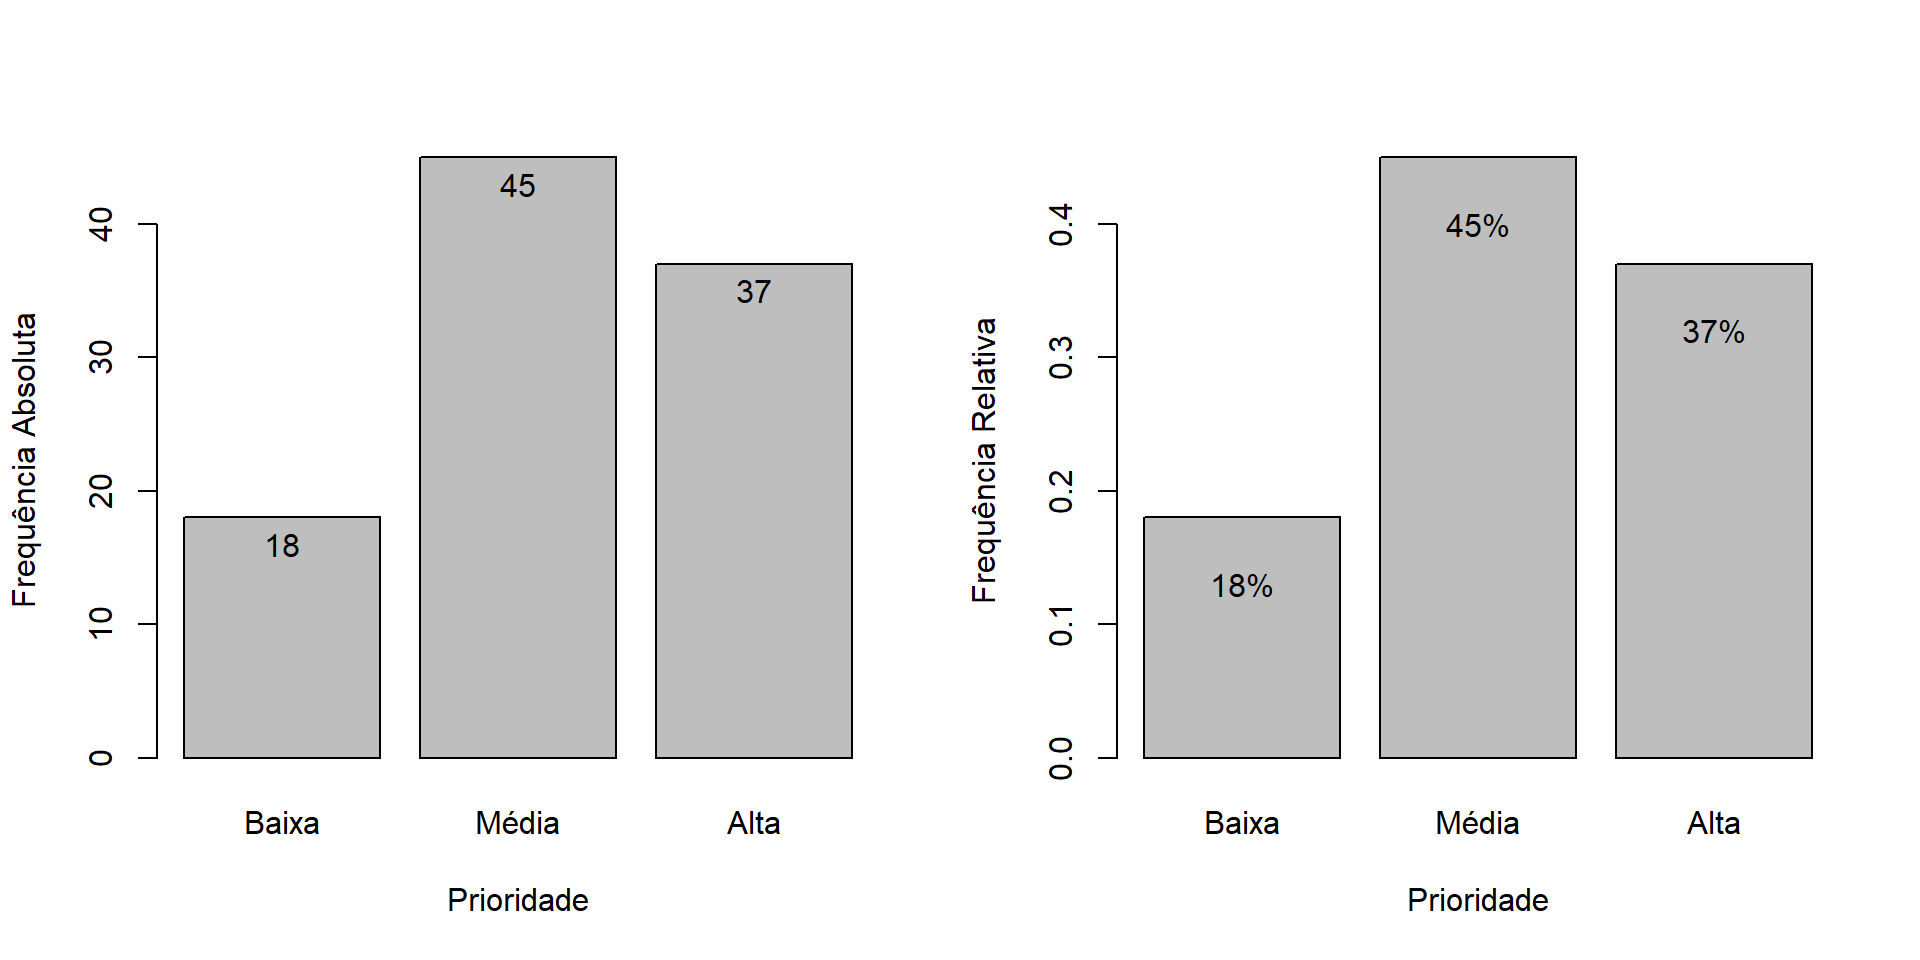
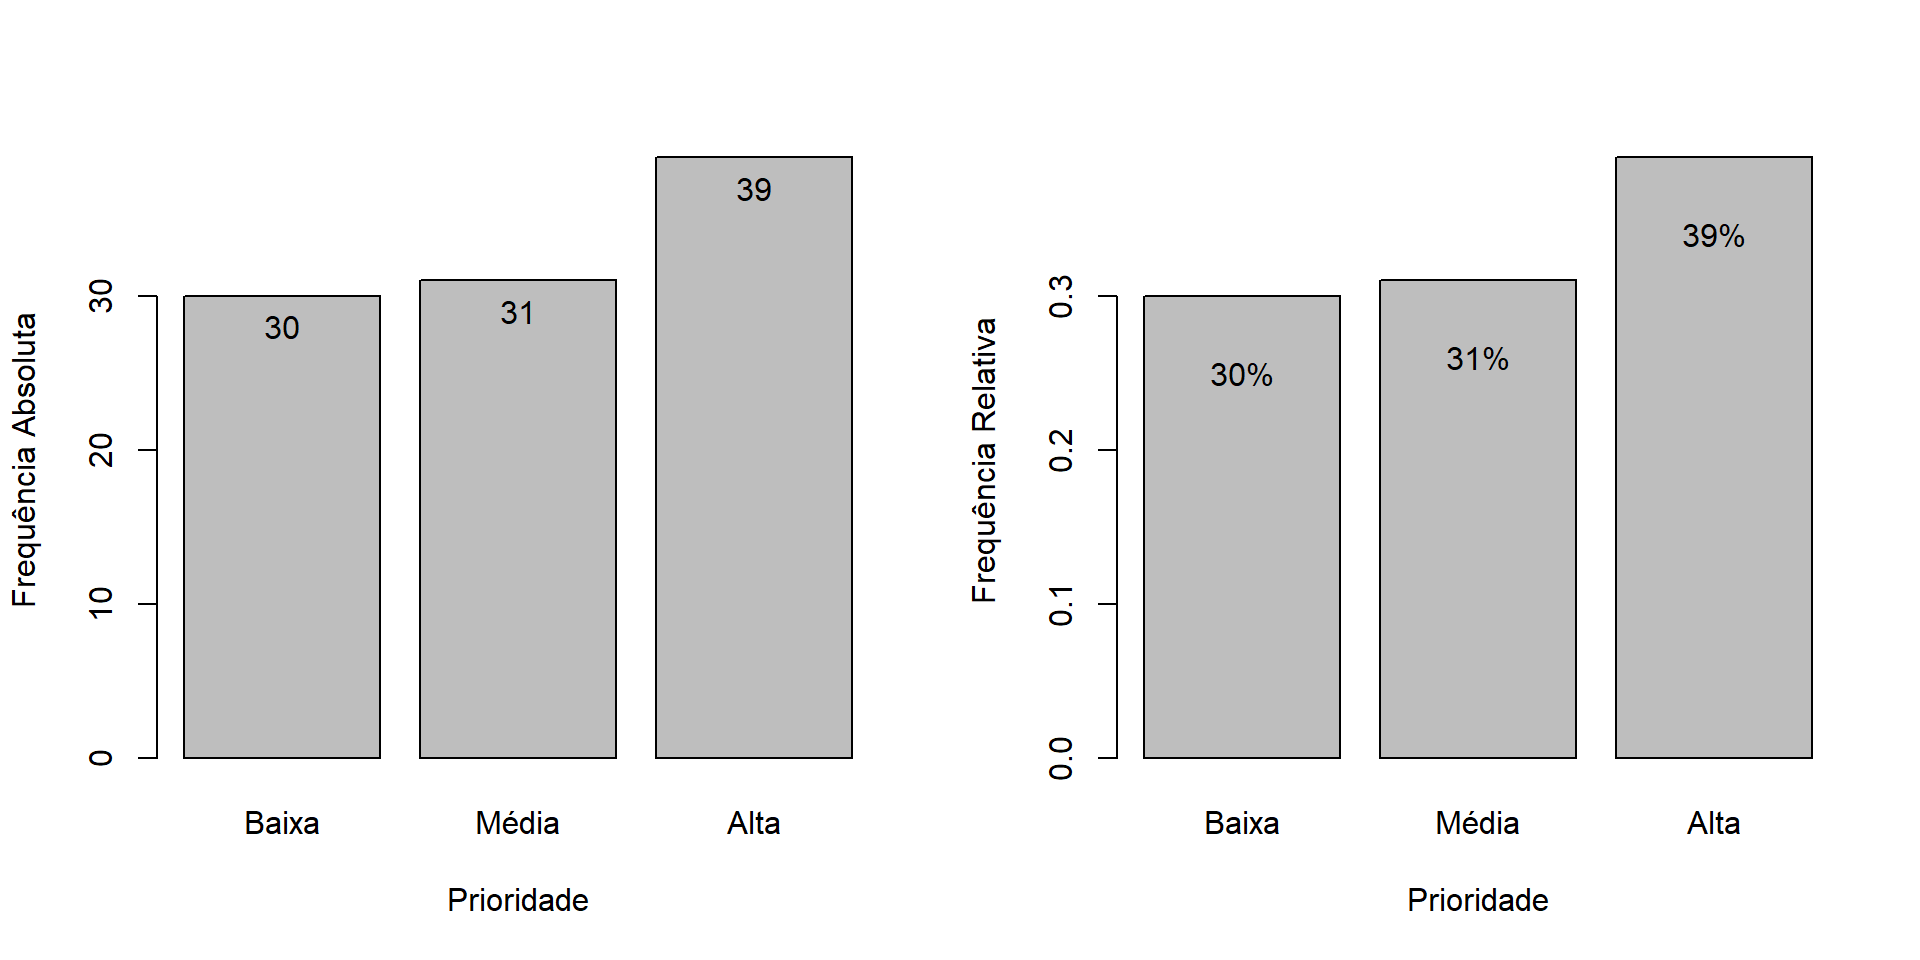
Built site for gh-pages

diff --git a/Cursos/Probabilidade_Estatistica/Cadernos/3-Tabelas_Graficos.html b/Cursos/Probabilidade_Estatistica/Cadernos/3-Tabelas_Graficos.html
@@ -1350,20 +1350,20 @@ Y          ensino fundamental ensino médio  superior
 <div class="cell">
 <div class="sourceCode cell-code" id="cb39"><pre class="sourceCode numberSource r number-lines code-with-copy"><code class="sourceCode r"><span id="cb39-1"><a></a><span class="fu">print</span>(<span class="fu">head</span>(dados_email))</span></code><button title="Copy to Clipboard" class="code-copy-button"><i class="bi"></i></button></pre></div>
 <div class="cell-output cell-output-stdout">
-<pre><code>                       remetente               assunto tamanho_kb prioridade
-1      Pedro-Almeida@example.com Confirmação de Pedido        279      Média
-2          Ana-Souza@example.com   Convite para Evento         54      Baixa
-3 Mariana-Cavalcante@example.com  Atualização de Conta        180       Alta
-4         João-Silva@example.com       Oferta Especial        458      Média
-5    Tatiane-Almeida@example.com  Atualização de Conta        168       Alta
-6 Tatiane-Cavalcante@example.com          Prêmio Ganho        490       Alta
+<pre><code>                     remetente               assunto tamanho_kb prioridade
+1     Rafael-Souza@example.com  Atualização de Conta        334      Baixa
+2 Laura-Cavalcante@example.com       Oferta Especial        226       Alta
+3      Ana-Martins@example.com   Convite para Evento        313      Baixa
+4     José-Pereira@example.com          Prêmio Ganho        179       Alta
+5    Mariana-Costa@example.com          Prêmio Ganho         62      Média
+6     Rafael-Gomes@example.com Confirmação de Pedido        416       Alta
    spam qtd_caracteres formato
-1 FALSE            135   Texto
-2  TRUE            240    HTML
-3  TRUE            208   Texto
-4  TRUE            174    HTML
-5 FALSE            106   Texto
-6  TRUE            219    HTML</code></pre>
+1  TRUE            234   Texto
+2  TRUE            113   Texto
+3  TRUE            256    HTML
+4 FALSE            278   Texto
+5  TRUE             87   Texto
+6 FALSE            255    HTML</code></pre>
 </div>
 </div>
 </section>
@@ -1373,13 +1373,13 @@ Y          ensino fundamental ensino médio  superior
 <div class="sourceCode cell-code" id="cb41"><pre class="sourceCode numberSource r number-lines code-with-copy"><code class="sourceCode r"><span id="cb41-1"><a></a><span class="fu">str</span>(dados_email)</span></code><button title="Copy to Clipboard" class="code-copy-button"><i class="bi"></i></button></pre></div>
 <div class="cell-output cell-output-stdout">
 <pre><code>'data.frame':   100 obs. of  7 variables:
- $ remetente     : chr  "Pedro-Almeida@example.com" "Ana-Souza@example.com" "Mariana-Cavalcante@example.com" "João-Silva@example.com" ...
- $ assunto       : chr  "Confirmação de Pedido" "Convite para Evento" "Atualização de Conta" "Oferta Especial" ...
- $ tamanho_kb    : num  279 54 180 458 168 490 263 123 231 300 ...
- $ prioridade    : chr  "Média" "Baixa" "Alta" "Média" ...
- $ spam          : logi  FALSE TRUE TRUE TRUE FALSE TRUE ...
- $ qtd_caracteres: num  135 240 208 174 106 219 248 235 65 145 ...
- $ formato       : chr  "Texto" "HTML" "Texto" "HTML" ...</code></pre>
+ $ remetente     : chr  "Rafael-Souza@example.com" "Laura-Cavalcante@example.com" "Ana-Martins@example.com" "José-Pereira@example.com" ...
+ $ assunto       : chr  "Atualização de Conta" "Oferta Especial" "Convite para Evento" "Prêmio Ganho" ...
+ $ tamanho_kb    : num  334 226 313 179 62 416 441 195 376 85 ...
+ $ prioridade    : chr  "Baixa" "Alta" "Baixa" "Alta" ...
+ $ spam          : logi  TRUE TRUE TRUE FALSE TRUE FALSE ...
+ $ qtd_caracteres: num  234 113 256 278 87 255 125 78 164 60 ...
+ $ formato       : chr  "Texto" "Texto" "HTML" "Texto" ...</code></pre>
 </div>
 </div>
 <!-- ## Histogramas -->
@@ -1408,13 +1408,13 @@ Y          ensino fundamental ensino médio  superior
 <div class="cell-output cell-output-stdout">
 <pre><code>
 Baixa Média  Alta 
-   18    45    37 </code></pre>
+   30    31    39 </code></pre>
 </div>
 <div class="sourceCode cell-code" id="cb45"><pre class="sourceCode numberSource r number-lines code-with-copy"><code class="sourceCode r"><span id="cb45-1"><a></a>(<span class="at">tabela.prop =</span> <span class="fu">prop.table</span>(tabela)) </span></code><button title="Copy to Clipboard" class="code-copy-button"><i class="bi"></i></button></pre></div>
 <div class="cell-output cell-output-stdout">
 <pre><code>
 Baixa Média  Alta 
- 0.18  0.45  0.37 </code></pre>
+ 0.30  0.31  0.39 </code></pre>
 </div>
 </div>
 </section>
@@ -1479,8 +1479,8 @@ Baixa Média  Alta
 <div class="sourceCode cell-code" id="cb51"><pre class="sourceCode numberSource r number-lines code-with-copy"><code class="sourceCode r"><span id="cb51-1"><a></a>x <span class="ot">=</span> <span class="fu">runif</span>(<span class="dv">30</span>,<span class="dv">1</span>,<span class="dv">40</span>) <span class="sc">|&gt;</span> <span class="fu">round</span>() <span class="co"># simulação</span></span>
 <span id="cb51-2"><a></a>x</span></code><button title="Copy to Clipboard" class="code-copy-button"><i class="bi"></i></button></pre></div>
 <div class="cell-output cell-output-stdout">
-<pre><code> [1] 17 33 10 32 22 29 21 18  8 29 30 37 23 25 40  8 18 34 30 36 18 35 14 31 11
-[26] 31  5  4 27 27</code></pre>
+<pre><code> [1]  2 24 16 33  2 12 19 36 27 35  6 16 23 13 40  1 14 39 10 38 33  6  6 13 24
+[26] 27 16  3  3 35</code></pre>
 </div>
 </div>
 </section>
@@ -1520,37 +1520,37 @@ Baixa Média  Alta
 <tr class="odd">
 <td style="text-align: left;">(0,5]</td>
 <td style="text-align: right;">2.5</td>
-<td style="text-align: right;">2</td>
-<td style="text-align: right;">0.0667</td>
-<td style="text-align: right;">0.0133</td>
+<td style="text-align: right;">5</td>
+<td style="text-align: right;">0.1667</td>
+<td style="text-align: right;">0.0333</td>
 </tr>
 <tr class="even">
 <td style="text-align: left;">(5,10]</td>
 <td style="text-align: right;">7.5</td>
-<td style="text-align: right;">3</td>
-<td style="text-align: right;">0.1000</td>
-<td style="text-align: right;">0.0200</td>
+<td style="text-align: right;">4</td>
+<td style="text-align: right;">0.1333</td>
+<td style="text-align: right;">0.0267</td>
 </tr>
 <tr class="odd">
 <td style="text-align: left;">(10,15]</td>
 <td style="text-align: right;">12.5</td>
-<td style="text-align: right;">2</td>
-<td style="text-align: right;">0.0667</td>
-<td style="text-align: right;">0.0133</td>
+<td style="text-align: right;">4</td>
+<td style="text-align: right;">0.1333</td>
+<td style="text-align: right;">0.0267</td>
 </tr>
 <tr class="even">
 <td style="text-align: left;">(15,30]</td>
 <td style="text-align: right;">22.5</td>
-<td style="text-align: right;">14</td>
-<td style="text-align: right;">0.4667</td>
-<td style="text-align: right;">0.0311</td>
+<td style="text-align: right;">9</td>
+<td style="text-align: right;">0.3000</td>
+<td style="text-align: right;">0.0200</td>
 </tr>
 <tr class="odd">
 <td style="text-align: left;">(30,50]</td>
 <td style="text-align: right;">40.0</td>
-<td style="text-align: right;">9</td>
-<td style="text-align: right;">0.3000</td>
-<td style="text-align: right;">0.0150</td>
+<td style="text-align: right;">8</td>
+<td style="text-align: right;">0.2667</td>
+<td style="text-align: right;">0.0133</td>
 </tr>
 </tbody>
 </table>

diff --git a/Cursos/Introducao_R/Cadernos/3-Estruturas_de_Controle.html b/Cursos/Introducao_R/Cadernos/3-Estruturas_de_Controle.html
@@ -237,6 +237,7 @@ pre > code.sourceCode > span > a:first-child::before { text-decoration: underlin
   <li><a href="#break-para-sair-do-loop" id="toc-break-para-sair-do-loop" class="nav-link" data-scroll-target="#break-para-sair-do-loop"><code>break</code> para sair do Loop</a></li>
   </ul></li>
   </ul></li>
+  <li><a href="#atividades" id="toc-atividades" class="nav-link" data-scroll-target="#atividades">Atividades</a></li>
   <li><a href="#referências" id="toc-referências" class="nav-link" data-scroll-target="#referências">Referências</a></li>
   </ul>
 </nav>
@@ -767,6 +768,27 @@ Tentativa: 36
 </div>
 </section>
 </section>
+</section>
+<section id="atividades" class="level1">
+<h1>Atividades</h1>
+<ol type="1">
+<li><p>Considere:</p>
+<ol type="1">
+<li><p>Gere número de -100 a 100. Pode usar a função <code>seq</code> ou <code>runif(200,-100,100)</code></p></li>
+<li><p>Selecione $n=100$ da sequência</p></li>
+<li><p>Conte quantos são negativos e quantos são positivos</p></li>
+</ol></li>
+<li><p>Abaixo está a tabuada da sequência de Fibonnacci até 9. Construa um códido para reproduzi-lá.<br>
+<img src="Figuras/fibo.png" class="img-fluid"></p></li>
+<li><p>Considere o seguinte jogo (lançar moeda):</p>
+<ol type="1">
+<li><p>Jogador 1: escolhe cara</p></li>
+<li><p>Jogador 2: escolhe coroa</p></li>
+<li><p>Jogue a moeda</p></li>
+<li><p>Se a moeda for cara, o jogador 1 ganha um ponto. O mesmo para o jogador 2</p></li>
+<li><p>Vence que fizer 20 pontos primeiro</p></li>
+</ol></li>
+</ol>
 </section>
 <section id="referências" class="level1">
 <h1>Referências</h1>
